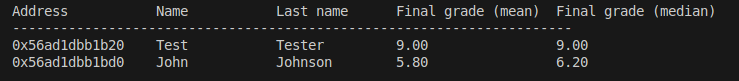
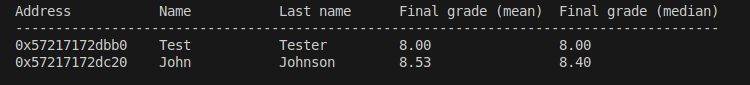
sutvarkytas isvedimo lenteles formatavimas. Papildytas readme failas.

diff --git a/StudentIO.cpp b/StudentIO.cpp
@@ -70,8 +70,11 @@ std::string createHeader(const std::string &mode, bool showAddress)
                << std::setw(wLastName) << "Last name"
                << std::setw(wGrade) << "Final grade (mean)" << '\n';
         // -- separator line --
-        header << std::setfill('-')
-               << std::setw(wFirsName) << ""
+        header << std::setfill('-');
+        if (showAddress)
+            header << std::setw(18) << "";
+
+        header << std::setw(wFirsName) << ""
                << std::setw(wLastName) << ""
                << std::setw(wGrade) << "" << '\n'
                << std::setfill(' ');
@@ -85,8 +88,12 @@ std::string createHeader(const std::string &mode, bool showAddress)
                << std::setw(wGrade) << "Final grade (median)" << '\n';
 
         // -- separator line --
-        header << std::setfill('-')
-               << std::setw(wFirsName) << ""
+
+        header << std::setfill('-');
+        if (showAddress)
+            header << std::setw(18) << "";
+
+        header << std::setw(wFirsName) << ""
                << std::setw(wLastName) << ""
                << std::setw(wGrade) << "" << '\n'
                << std::setfill(' ');
@@ -101,8 +108,11 @@ std::string createHeader(const std::string &mode, bool showAddress)
                << std::setw(wGrade) << "Final grade (median)" << '\n';
 
         // -- separator line --
-        header << std::setfill('-')
-               << std::setw(wFirsName) << ""
+        header << std::setfill('-');
+        if (showAddress)
+            header << std::setw(18) << "";
+
+        header << std::setw(wFirsName) << ""
                << std::setw(wLastName) << ""
                << std::setw(wGrade) << ""
                << std::setw(wGrade) << "" << '\n'

diff --git a/README.md b/README.md
@@ -64,13 +64,14 @@ Failas išsaugomas ir vartotojui išvedama žinutė, kad generavimas pavyko.
 
 ## Duomenų išvedimo būdai:
 
-### Duomenų išvedim į ekraną
+### Duomenų išvedimas į ekraną
 Kaip ir minėta ankščiau, programa atspausdina rankiniu būdu įvesto studento duomenis:  
 ![alt text](./screenshots/printTerminal2.png)  
 
 Programa taip pat atpsausdina studentų sąrašą vartotojui pasirinkus galutinio balo apskaičiavimą:  
-![alt text](./screenshots/printTerminal.png)
+![alt text](./screenshots/printTerminal.png)  
 
-### Duomenų išvedim į failą
-
-
+### Duomenų išvedimas į failą
+Studentų sąrašas išvedamas į failą vartotojui pasirinkus surūšiuoti studentus į dvi grupes: "vargšiukus (strugglers)" ir "kietiakius (highachievers)".  
+![alt text](./screenshots/highachieversTXT.png)
+![alt text](./screenshots/strugglersTXT.png)
